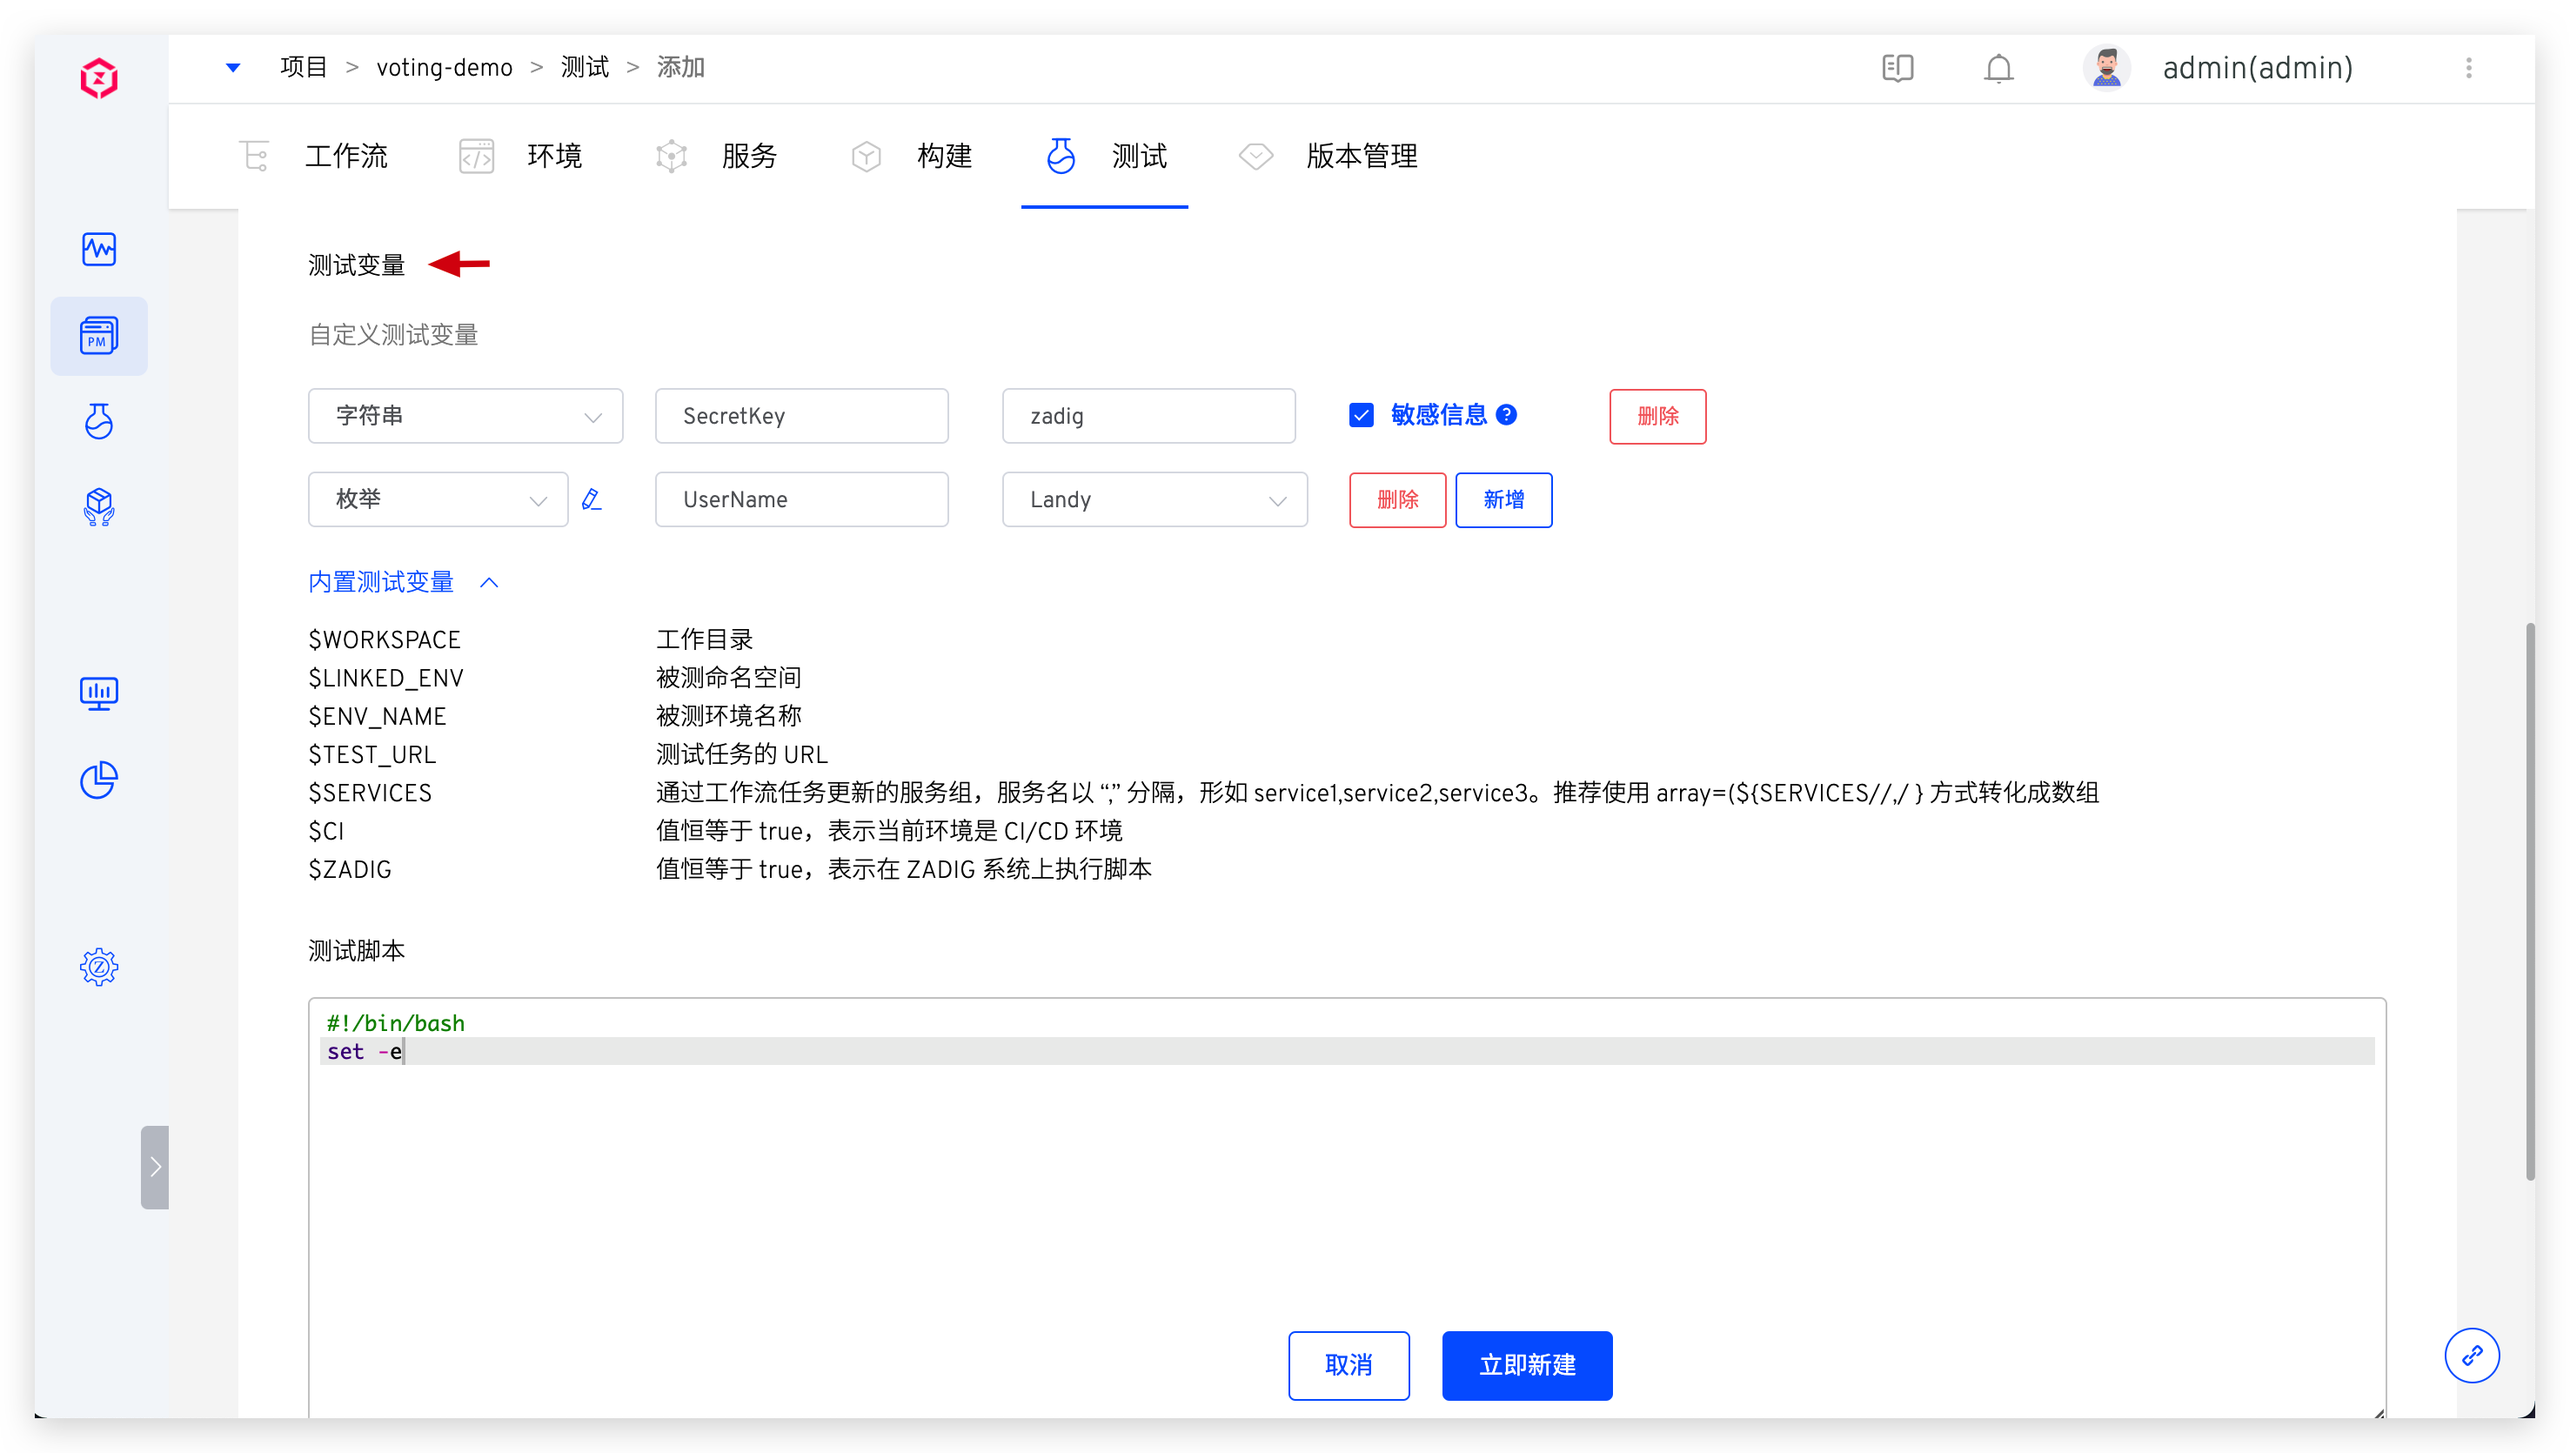
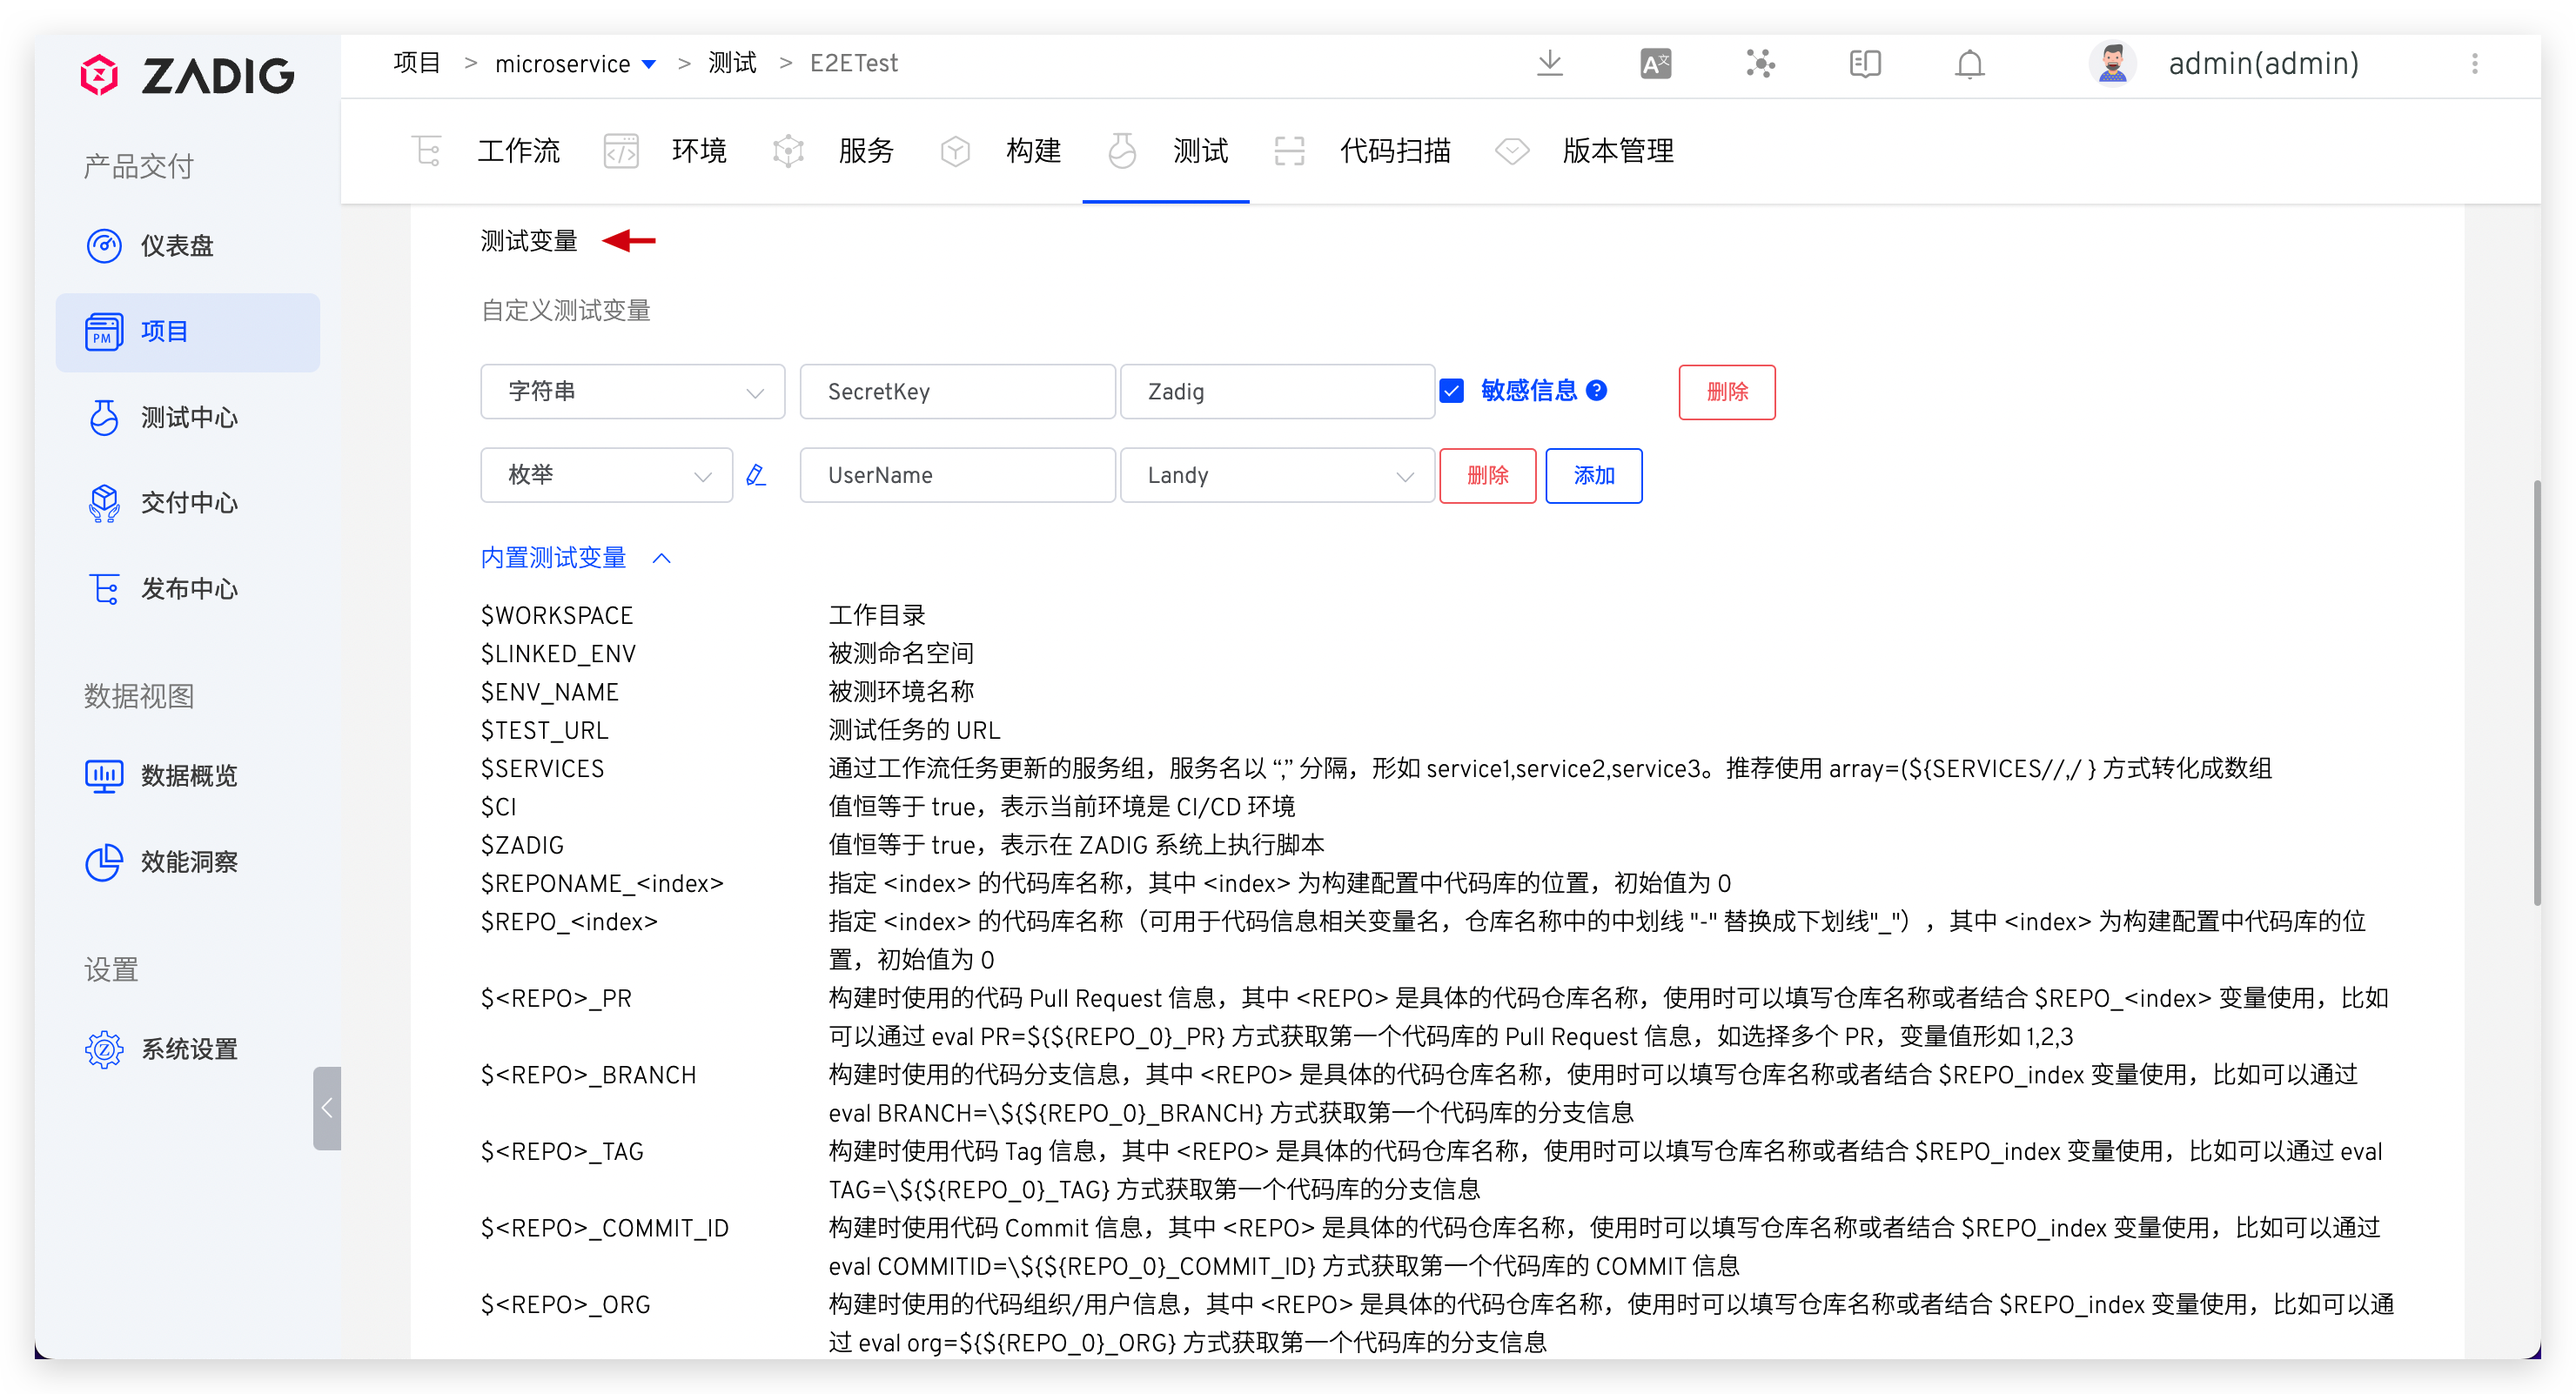
test env description

diff --git a/dev/04.项目/06.test.md b/dev/04.项目/06.test.md
@@ -45,6 +45,8 @@ Zadig 支持性能、功能、接口、UI、端到端自动化测试等诸多测
 ### 测试变量
 包括系统内置变量和自定义变量，可在测试脚本中直接使用。
 
+> 提示：在 [测试脚本](#测试脚本) 中添加 `env` 命令可查看所有测试变量。
+
 ![测试管理](./_images/test_var.png)
 
 **内置测试变量**
@@ -57,9 +59,18 @@ Zadig 支持性能、功能、接口、UI、端到端自动化测试等诸多测
 |`LINKED_ENV`|被测环境的命名空间|
 |`ENV_NAME`|被测环境的名称|
 |`TEST_URL`|测试任务的 URL|
-|`SERVICES`|将测试任务和工作流关联后，通过工作流任务更新的服务组。服务名以 “,” 分隔，形如 service1,service2,service3|
+|`SERVICES`|将测试任务和产品工作流关联后，通过工作流任务更新的服务组。服务名以 “,” 分隔，形如 service1,service2,service3|
 |`CI`|值恒等于 true，可视需要使用|
 |`ZADIG`|值恒等于 true，可视需要使用|
+|`REPONAME_<index>`|1. 获取指定 `<index>` 的代码库名称<br>2. 其中 `<index>` 为测试配置中代码的位置，初始值为 0<br>3. 下图例中，在测试脚本中使用 `$REPO_0` 即可获得第一个代码库的名称 `zadig`|
+|`REPO_<index>`|1. 获取指定 `<index>` 的代码库名称，并自动将名称中的中划线 `-` 替换为下划线 `_`<br>2. 其中 `<index>` 为测试配置中代码的位置，初始值为 0<br>3. 下图例中，在测试脚本中使用 `$REPO_1` 即可获得第一个代码库转化后的名称 `test_resources`|
+|`<REPO>_PR`|1. 获取测试过程中指定 `<REPO>` 使用的 Pull Request 信息，使用时请将 `<REPO>` 替换为具体的代码库名称<br>2. 当 `<REPO>` 信息中含有中划线 `-` 时，需要将 `-` 替换为下划线 `_`<br>3. 下图例中希望获取 `test-resources` 库的 Pull Request 信息，使用 `$test_resources_PR` 或者 `eval PR=\${${REPO_0}_PR}` 即可<br>4. 若构建时指定了多个 PR，比如指定的 PR ID 为 1、2、3，则该变量的值为 `1,2,3` <br> 5. 当代码库为`其他`代码源时，不支持该变量|
+|`<REPO>_BRANCH`|1. 获取测试过程中指定 `<REPO>` 使用的分支信息，使用时请将 `<REPO>` 替换为具体的代码库名称<br>2. 当 `<REPO>` 信息中含有中划线 `-` 时，需要将 `-` 替换为下划线 `_`<br>3. 下图例中希望获取 `test-resources` 库的分支信息，使用 `$test_resources_BRANCH` 或者 `eval BRANCH=\${${REPO_0}_BRANCH}`即可|
+|`<REPO>_TAG`|1. 获取测试过程中指定 `<REPO>` 使用的 Tag 信息，使用时请将 `<REPO>` 替换为具体的代码库名称<br>2. 当 `<REPO>` 信息中含有中划线 `-` 时，需要将 `-` 替换为下划线 `_`<br>3. 下图例中希望获取 `test-resources` 库的 Tag 信息，使用 `$test_resources_TAG` 或者 `eval TAG=\${${REPO_0}_TAG}` 即可|
+|`<REPO>_COMMIT_ID`|1. 获取测试过程中指定 `<REPO>` 使用的 Commit ID 信息，使用时请将 `<REPO>` 替换为具体的代码库名称<br>2. 当 `<REPO>` 信息中含有中划线 `-` 时，需要将 `-` 替换为下划线 `_`<br> 3. 下图例中希望获取 `test-resources` 库的 Commit ID 信息，使用 `$test_resources_COMMIT_ID` 或者 `eval COMMIT_ID=\${${REPO_0}_COMMIT_ID}` 即可<br> 4. 当代码库为`其他`代码源时，不支持该变量|
+|`<REPO>_ORG`|1. 获取测试过程中指定 `<REPO>` 使用的 ORG 组织信息，使用时请将 `<REPO>` 替换为具体的代码库名称<br>2. 当 `<REPO>` 信息中含有中划线 `-` 时，需要将 `-` 替换为下划线 `_`<br> 3. 下图例中希望获取 `test-resources` 库的 ORG 组织信息，使用 `$test_resources_ORG` 或者 `eval ORG=\${${REPO_0}_ORG}` 即可|
+
+![测试管理](./_images/test_env_demo.png)
 
 **自定义测试变量**
 
